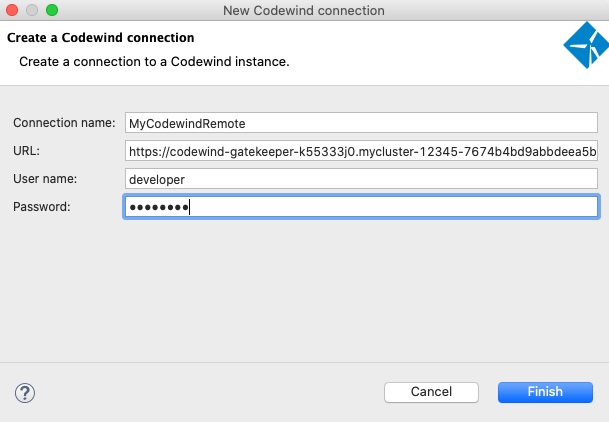
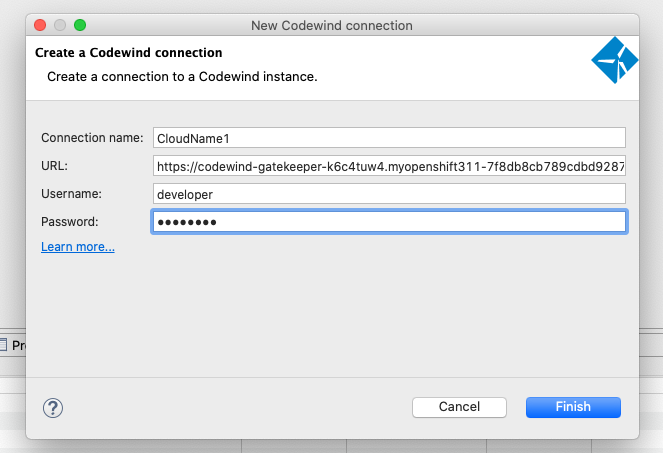
Update remote images

Changed region(s): [[0.0, 0.0, 1.0, 1.0]]

diff --git a/_documentations/remotedeploy-eclipse.md b/_documentations/remotedeploy-eclipse.md
@@ -30,7 +30,7 @@ The IDE and Codewind are connected.
 
 Before projects can be deployed on Kubernetes, you must specify a Docker registry. This example uses Docker Hub. 
 
-1\. If it's not already open, navigate to the connection details page, right-click the deployment, and select `Manage Deployment Registries`:
+1\. If it's not already open, navigate to the connection details page, right-click the deployment, and select `Manage Image Registries`:
 
 ![Docker Registry](./images/remoteeclipse/connectionSettings.png)
 
@@ -81,7 +81,7 @@ The project files are copied over to the Codewind server and the new `myFirstNod
 
 ![Build Success](./images/remoteeclipse/buildSuccess.png)
 
-`myFirstNodeProject` on `MyIBMCloud` is now running and ready.
+`myFirstNodeProject` on `CloudName1` cluster is now running and ready.
 
 Congratulations! In this topic you:
 

diff --git a/_documentations/remote-removing.md b/_documentations/remote-removing.md
@@ -95,7 +95,7 @@ INFO[0000] Kubernetes namespace: CWCTL will not remove the namespace automatical
 use 'kubectl delete namespace mycodewind-ns' if you would like to remove it
 ```
 
-Any previously configured IDEs are now in a `Disconnected` state. In this example, the remote deployment called `MyIBMCloud` is offline. Click the connection properties icon, and then click the `Remove Connection` button.
+Any previously configured IDEs are now in a `Disconnected` state. In this example, the remote deployment called `CloudName1` is offline. Click the connection properties icon, and then click the `Remove Connection` button.
 
 ![](./images/remotevs/removeConnection.png)
 

diff --git a/_documentations/remotedeploy-vscode.md b/_documentations/remotedeploy-vscode.md
@@ -90,7 +90,7 @@ Codewind prompts you to confirm the project type, in this case, identified as `N
 
 ![Build Success](./images/remotevs/buildSuccess.png)
 
-`myFirstProject` on `MyIBMCloud` is now running and ready.
+`myFirstNodeProject` on `CloudName1` cluster is now running and ready.
 
 Congratulations! In this topic you:
 
